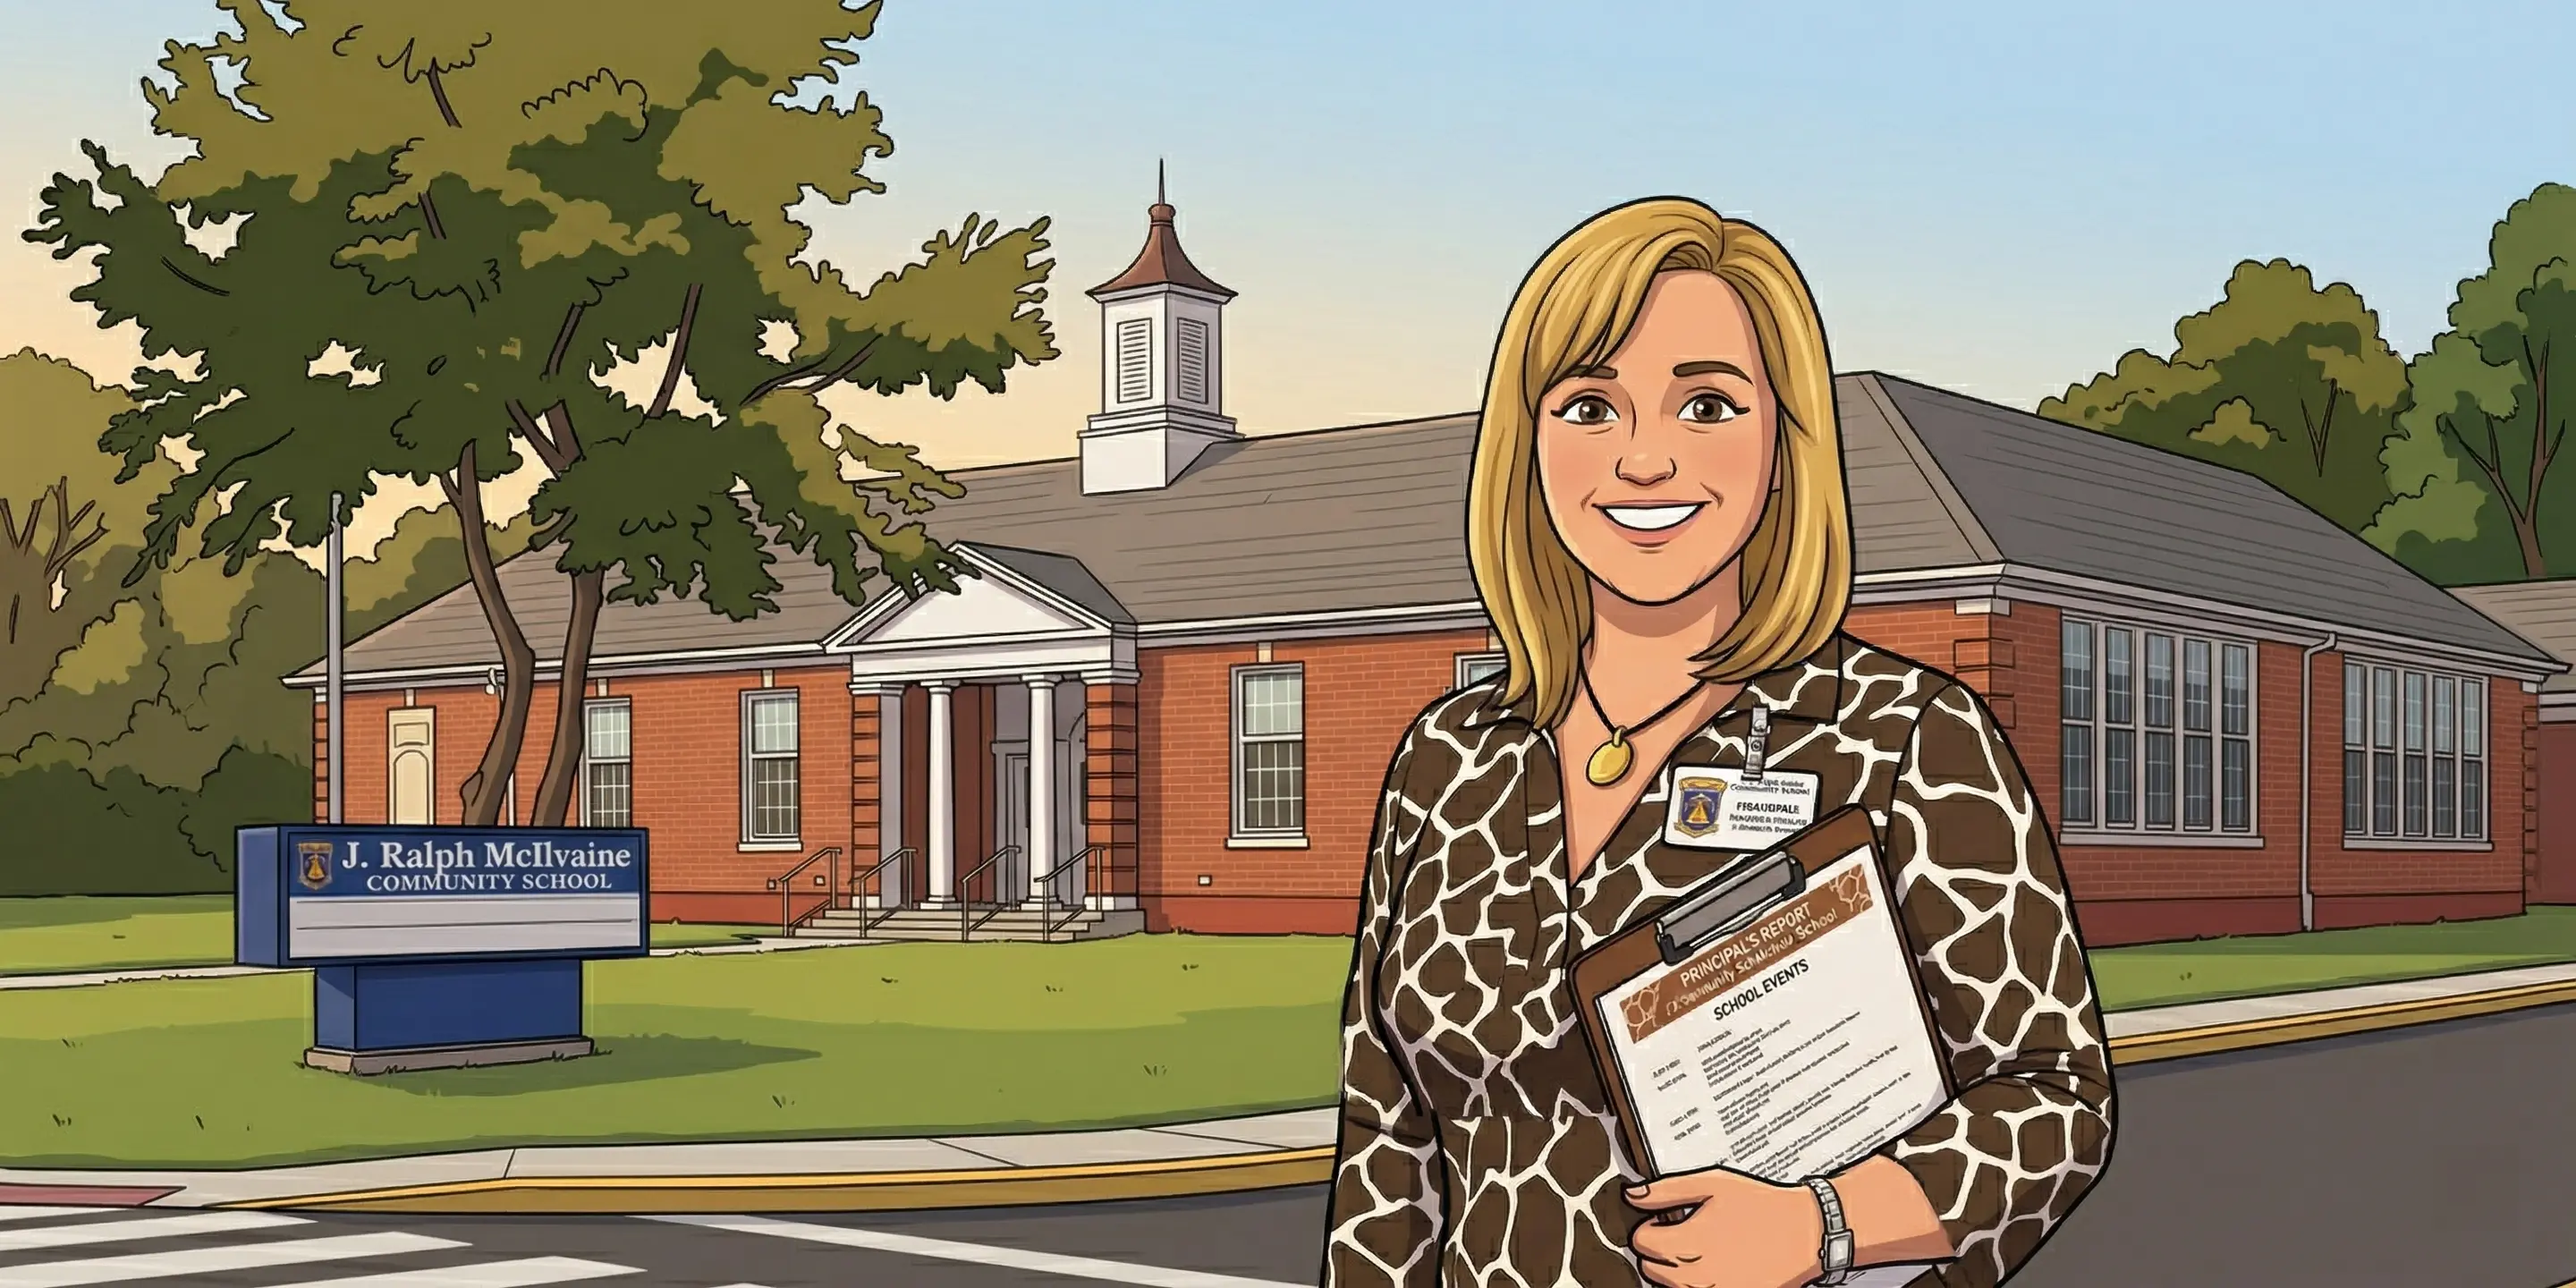
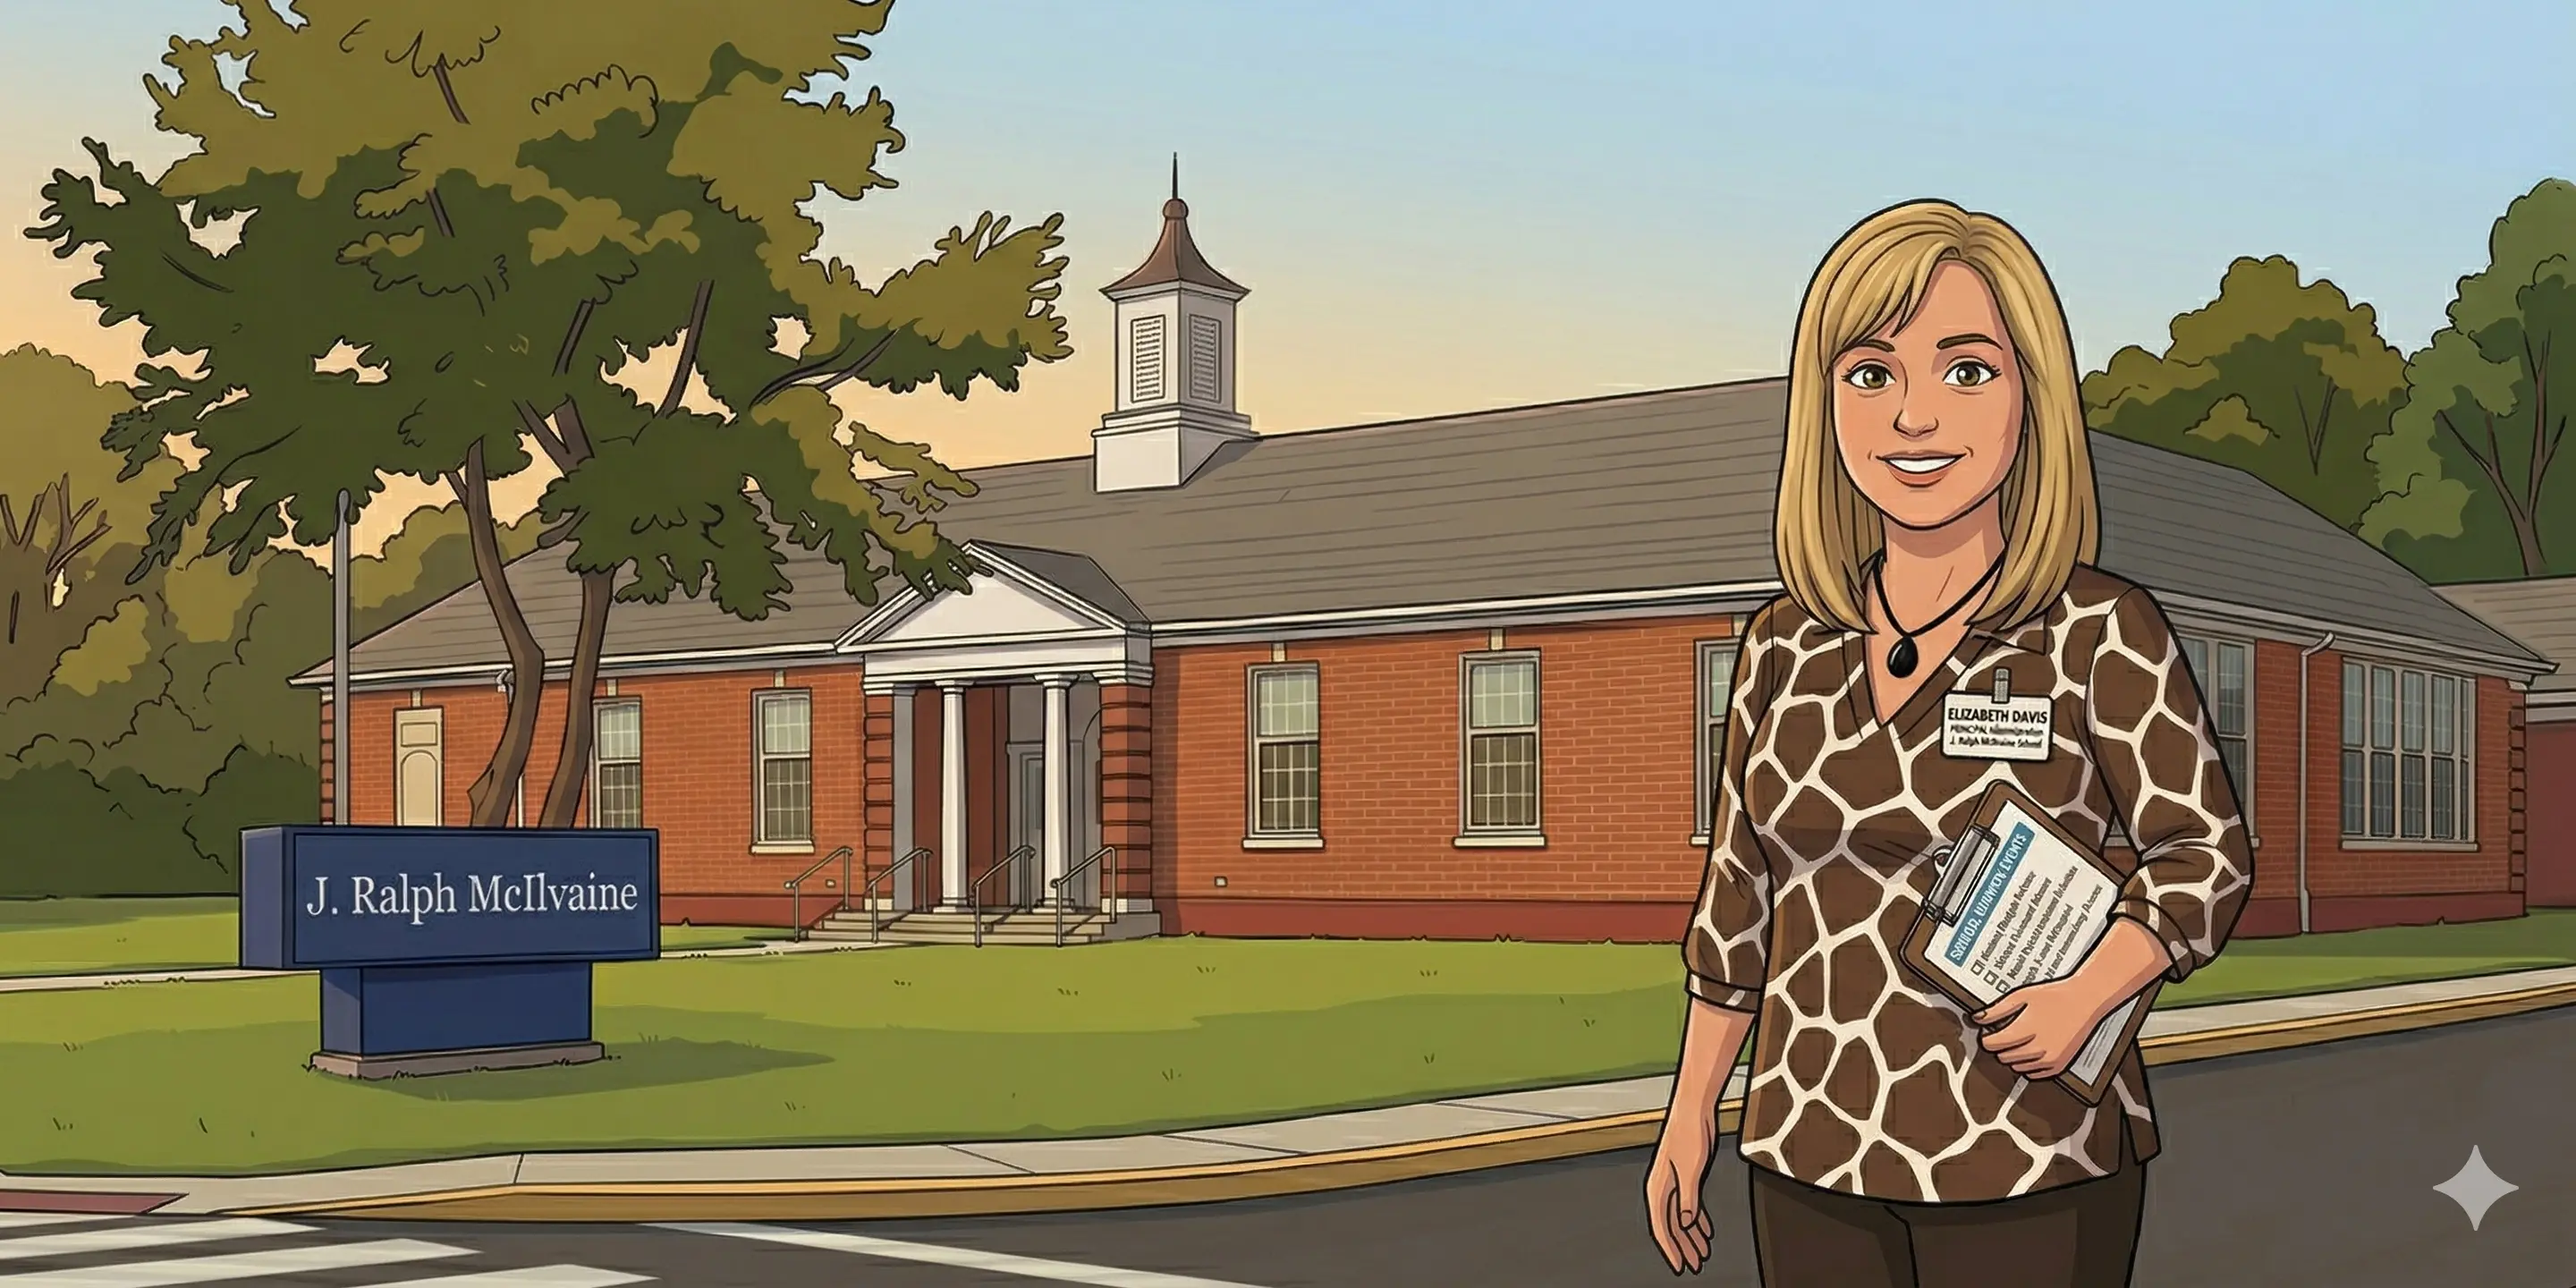
图片更新。歌曲播放bug修复。

diff --git a/cla/songs.html b/cla/songs.html
@@ -187,7 +187,14 @@
             if (songsData.length === 0) return;
             document.getElementById('gallery-view').innerHTML = songsData.map((song, index) => {
                 let imgPath = song.cover || '';
-                if(imgPath && !imgPath.startsWith('/') && !imgPath.startsWith('http')) { imgPath = '/' + imgPath; }
+                
+                // 🌟 路径防呆处理，防止因为后台填错路径导致 404
+                if (imgPath && imgPath.startsWith('/')) {
+                    imgPath = '..' + imgPath; 
+                } else if (imgPath && !imgPath.startsWith('http') && !imgPath.startsWith('../')) {
+                    imgPath = '../' + imgPath;
+                }
+
                 return `
                 <div class="song-card" onclick="startLevel(${index})">
                     <div class="card-img-wrapper"><img src="${imgPath}" onerror="this.style.display='none';"></div>
@@ -196,7 +203,7 @@
             }).join('');
         }
 
-        // 🌟 核心升级：智能自动断页功能
+        // 🌟 核心升级：智能自动断页功能 + 视频起始时间修复
         function startLevel(idx) {
             currentSong = songsData[idx]; listView.style.display = 'none'; playView.style.display = 'flex';
             document.getElementById('song-title').innerHTML = formatText(currentSong.title);
@@ -225,8 +232,13 @@
                 });
             }
 
+            // 🌟 修复 Bug 1：将 startTime 传递给视频页面
             if (currentSong.youtubeId) {
-                currentSlides.push({type:'video', content:currentSong.youtubeId});
+                currentSlides.push({
+                    type: 'video', 
+                    content: currentSong.youtubeId,
+                    startTime: currentSong.startTime || 0
+                });
             }
             currentSlideIndex = 0; renderSlide();
         }
@@ -304,7 +316,9 @@
                     });
                 });
             } else {
-                lyricsContent.innerHTML = `<div style="width:90%; height:80%; border-radius:20px; overflow:hidden; border:8px solid var(--main-teal);"><iframe src="https://www.youtube-nocookie.com/embed/${slide.content}?rel=0" style="width:100%; height:100%; border:none;" allowfullscreen></iframe></div>`;
+                // 🌟 修复 Bug 1：如果有 startTime，拼接到视频网址里去
+                const startParam = slide.startTime > 0 ? `&start=${slide.startTime}` : '';
+                lyricsContent.innerHTML = `<div style="width:90%; height:80%; border-radius:20px; overflow:hidden; border:8px solid var(--main-teal);"><iframe src="https://www.youtube-nocookie.com/embed/${slide.content}?rel=0${startParam}" style="width:100%; height:100%; border:none;" allowfullscreen></iframe></div>`;
             }
             document.getElementById('page-indicator').innerText = `${currentSlideIndex + 1} / ${currentSlides.length}`;
         }
@@ -362,7 +376,15 @@
             const imgFile = prompt(`请填写后台的图片路径:`, `/images/songs/${autoName}`);
             if (imgFile) { let d = JSON.parse(localStorage.getItem(`mecc_hard_${currentSong.id}`) || "{}"); d[selectedText] = imgFile; localStorage.setItem(`mecc_hard_${currentSong.id}`, JSON.stringify(d)); bubble.style.display = 'none'; renderSlide(); }
         }
-        function closePlay() { playView.style.display = 'none'; listView.style.display = 'flex'; bubble.style.display = 'none'; }
+
+        // 🌟 修复 Bug 2：返回列表时，强制清空页面内容（切断视频声音）
+        function closePlay() { 
+            playView.style.display = 'none'; 
+            listView.style.display = 'flex'; 
+            bubble.style.display = 'none'; 
+            lyricsContent.innerHTML = ''; 
+        }
+
         function exportData() { const data = {}; for (let i = 0; i < localStorage.length; i++) { const k = localStorage.key(i); if (k.startsWith('mecc_')) data[k] = localStorage.getItem(k); } const blob = new Blob([JSON.stringify(data)], {type:'application/json'}); const a = document.createElement('a'); a.href = URL.createObjectURL(blob); a.download = `mecc_songs_backup.json`; a.click(); }
         function importData(event) { const file = event.target.files[0]; const reader = new FileReader(); reader.onload = (e) => { const data = JSON.parse(e.target.result); Object.keys(data).forEach(key => localStorage.setItem(key, data[key])); alert("导入成功！"); location.reload(); }; reader.readAsText(file); }
         function resetAll() { if(confirm("确定清空吗？")) { Object.keys(localStorage).forEach(k => k.startsWith('mecc_') && localStorage.removeItem(k)); location.reload(); } }

diff --git a/admin/index.html b/admin/index.html
@@ -3,7 +3,7 @@
   <head>
     <meta charset="utf-8" />
     <meta name="viewport" content="width=device-width, initial-scale=1.0" />
-    <title>我的绘本图书馆 - 内容管理</title>
+    <title>MECC 教学内容管理系统 - 王老师</title>
   </head>
   <body>
     <script src="https://unpkg.com/decap-cms@^3.0.0/dist/decap-cms.js"></script>
